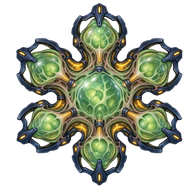
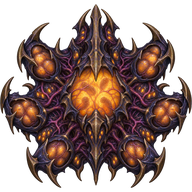
balance: capital weapons and repair progression

diff --git a/tools/validate_mod.py b/tools/validate_mod.py
@@ -213,6 +213,18 @@ if "rsTitan" in UNITS:
     for expected in (("attack", "turretMultiTargeting", "true"), ("turret_2", "canAttackLandUnits", "false"), ("turret_3", "copyFrom", "2"), ("projectile_3", "directDamage", "45")):
         if expected not in titan_entries:
             ERRORS.append(f"titan anti-air battery missing {expected}")
+for capital_name in ("rsCruiser", "rsBattleship", "rsTitan"):
+    if capital_name in UNITS and ("projectile_1", "instant", "true") not in UNITS[capital_name][1]:
+        ERRORS.append(f"{capital_name} main energy weapon must bypass projectile interception")
+if "rsCruiser" in UNITS and ("turret_pd", "interceptProjectiles_withTags", "rsNoProjectile") not in UNITS["rsCruiser"][1]:
+    ERRORS.append("capital ships must not inherit destroyer point defense")
+for missile_name in ("rsCruiserMissile", "rsMissileBattleship"):
+    if missile_name in UNITS and ("projectile_1", "instant", "false") not in UNITS[missile_name][1]:
+        ERRORS.append(f"{missile_name} must retain visible guided missiles")
+if "rsColossus" in UNITS:
+    for number in range(1, 6):
+        if (f"projectile_{number}", "deflectionPower", "-1") not in UNITS["rsColossus"][1]:
+            ERRORS.append(f"colossus weapon {number} must resist point defense")
 if "rsParadoxTitan" in UNITS:
     paradox_entries = UNITS["rsParadoxTitan"][1]
     for expected in (("core", "maxShield", "4500"), ("core", "selfRegenRate", "0.25"), ("turret_laserDefence", "laserDefenceEnergyUse", "0.05"), ("projectile_3", "directDamage", "65"), ("hiddenAction_academyTraining", "convertTo", "rsParadoxTitanVeteran")):
@@ -220,8 +232,8 @@ if "rsParadoxTitan" in UNITS:
             ERRORS.append(f"paradox titan missing {expected}")
 if "rsParadoxTitanVeteran" in UNITS and not any(s == "core" and k == "tags" and "rsTitan" in v and "rsVeteran" in v for s, k, v in UNITS["rsParadoxTitanVeteran"][1]):
     ERRORS.append("veteran paradox titan must retain titan cap and training tags")
-if "rsMegaShipyard" in UNITS and ("core", "nanoFactorySpeed", "2") not in UNITS["rsMegaShipyard"][1]:
-    ERRORS.append("mega shipyard must build at double factory speed")
+if "rsMegaShipyard" in UNITS and ("core", "nanoFactorySpeed", "3") not in UNITS["rsMegaShipyard"][1]:
+    ERRORS.append("mega shipyard must build at triple factory speed")
 for site, frame, first_action, final_action in (
     ("rsDysonSite", "rsDysonFrame", "action_buildDysonFrame", "action_completeDyson"),
     ("rsMatterSite", "rsMatterFrame", "action_buildMatterFrame", "action_completeMatter"),
@@ -391,8 +403,16 @@ if not (ROOT / "mod-info.txt").is_file():
     ERRORS.append("missing mod-info.txt")
 
 overrides = {(name, v) for name, (_, entries) in UNITS.items() for s, k, v in entries if s == "core" and k == "overrideAndReplace"}
-if overrides != {("rsPreFtlCommand", "commandCenter"), ("rsPreFtlBuilder", "builder"), ("rsPreFtlMine", "extractor"), ("rsNativeGunT3Bridge", "c_turret_t3_gun"), ("rsNativeSamT3Bridge", "c_antiAirTurretT3")}:
-    ERRORS.append(f"native replacements must include capital, builder, extractor, and T3 towers: {overrides}")
+if overrides != {("rsPreFtlCommand", "commandCenter"), ("rsPreFtlBuilder", "builder"), ("rsPreFtlMine", "extractor"), ("rsNativeRepairBay", "repairBay"), ("rsNativeGunT3Bridge", "c_turret_t3_gun"), ("rsNativeSamT3Bridge", "c_antiAirTurretT3")}:
+    ERRORS.append(f"native replacements must include capital, builder, extractor, repair bay, and T3 towers: {overrides}")
+if "rsNativeRepairBay" in UNITS:
+    entries = UNITS["rsNativeRepairBay"][1]
+    if ("action_upgradeRepairBase", "convertTo", "rsRepairBase") not in entries:
+        ERRORS.append("native repair bay must upgrade to the repair base")
+if "rsEngineer" in UNITS:
+    entries = UNITS["rsEngineer"][1]
+    if ("canBuild_repairBase", "name", "rsNativeRepairBay") not in entries:
+        ERRORS.append("engineer must build the native repair bay bridge")
 for tier, target, minerals in (
     ("rsMiningStationT3", "rsDeepMiningStation", 16),
     ("rsMiningStationT3Boosted", "rsDeepMiningStationBoosted", 24),
@@ -436,6 +456,8 @@ if "rsPreFtlCommand" in UNITS:
         ERRORS.append("command center must not produce engineers")
     if ("action_researchFTL", "addGlobalTeamTags", "rsTechFTL") not in entries:
         ERRORS.append("command center must research FTL before upgrading")
+    if ("action_researchFTL", "tags", "rsFtlResearch") not in entries or not any(s == "action_researchFTL" and k == "isVisible" and "queueSize(withActionTag='rsFtlResearch')==0" in v for s, k, v in entries):
+        ERRORS.append("command center must hide FTL research while it is already queued")
     for faction in ("regular", "machine", "hive"):
         if (f"action_{faction}", "price", "credits=5000, minerals=150") not in entries:
             ERRORS.append(f"{faction} empire must pay the new entry cost")

diff --git a/.agents/specs/content-roster.md b/.agents/specs/content-roster.md
@@ -64,6 +64,10 @@
 
 恒星基地及星堡、堡垒、擎天堡垒均能自动维修附近友方舰船和设施。一级修理半径 245、维修速率 0.60；高级阶段依次为半径 270/300/330、维修速率 0.75/0.90/1.05。修理半径与对应武器射程保持一致，选中圈能同时表示两种范围；专职维修基地以 320 半径和 1.50 维修速率保持更快修理的用途。修理目标选择、实际恢复速度与战斗中的生效情况需实测。
 
+原版修复湾应作为维修基地的前置，保留修理能力，并在完成驱逐舰舰体科技后原址升级为维修基地。升级前修复范围及速度低于维修基地。工程船和地面建造者建造前置修复湾，不能绕开升级费用直造维修基地。升级过程、AI 使用与旧存档兼容性须验证。
+
+舰船武器分工按屏卫舰与主力舰重设：护卫舰保持轻型速射炮，驱逐舰保留对导弹近防；巡洋舰、战列舰、泰坦以不可被普通点防御拦截的定向能量主炮承担稳定主力伤害，射速逐级降低、单发伤害与射程逐级提高。主力舰不继承驱逐舰的导弹近防，T2 战列舰与悖论泰坦的激光防御仍可拦截导弹。导弹巡洋舰和导弹战列舰保留可被专门近防克制的导弹，但不能因所有主力舰继承近防而互相零伤害。巨像三种行星武器及普通地图的地爆天星、中子灭杀不应被普通激光防御拦截。所有对舰与对地效果须通过隔离对照实测，不能以载入成功代替命中证明。
+
 防线设施的初始功能基线：导弹平台在研究远程导弹后可建，优先覆盖远距离航道；离子加农炮在战列舰时代并完成专属研究后可建，以慢速重击压制主力舰；护盾发生器在完成护盾科技后可建，拥有自身可恢复护盾，并提供附近弹体拦截。护盾发生器的区域能力以弹体拦截和阵地保护体现，不宣称会直接给邻近单位增加 `maxShield`；若后续找到稳定的区域护盾赋予机制，再按已确认设计调整。
 
 本规范中的“四级”是模组时代和升级顺序，不直接等于游戏 INI 的 `techLevel`。本机 1.15 解析器仅允许 `techLevel` 为 1–3；擎天堡垒仍以队伍科技、资源与前级基地限制其第四时代可达性。
@@ -82,11 +86,17 @@
 
 物质解压器的首版平衡基线：只有三张专用地图的黑洞节点附近可建。完成擎天堡垒科技后，在研究站消耗 15000 科研、240 合金、20 战略资源解锁；工程船以 4500 能量币、250 合金、12 战略资源建设基址；框架阶段消耗 3000 能量币、350 合金、180 科研、20 战略资源；完成阶段消耗 5500 能量币、600 合金、300 科研、25 战略资源。仅完成体每周期产出 50 矿物；同队在基址、框架、完成体中合计限一处。黑洞节点在普通地图不存在，因此该巨构不能在普通地图建造。放置距离、数量限制及转换行为仍须对局验证。
 
-巨型船坞的首版基线：擎天堡垒与主宰舰体科技完成后，在研究站消耗 16000 科研、260 合金、20 战略资源解锁；工程船以 5000 能量币、280 合金、12 战略资源建设基址；框架阶段消耗 3500 能量币、400 合金、200 科研、20 战略资源；完成阶段消耗 6000 能量币、650 合金、320 科研、28 战略资源。同队三个阶段合计限一处。完成体提供全部常规舰船的生产入口，并以工厂生产速度倍率 2 缩短同一队列的造舰时间；《群星》式多船坞并行产舰需要本机 1.15 实测支持，不能把单队列加速冒充多线建造。其独立多线能力验收前，该巨构仍属未完成。
+巨型船坞的首版基线：擎天堡垒与主宰舰体科技完成后，在研究站消耗 16000 科研、260 合金、20 战略资源解锁；工程船以 5000 能量币、280 合金、12 战略资源建设基址；框架阶段消耗 3500 能量币、400 合金、200 科研、20 战略资源；完成阶段消耗 6000 能量币、650 合金、320 科研、28 战略资源。同队三个阶段合计限一处。完成体提供全部常规舰船的生产入口，并以工厂生产速度倍率 3 缩短同一队列的造舰时间；《群星》式多船坞并行产舰需要本机 1.15 实测支持，不能把单队列加速冒充多线建造。其独立多线能力验收前，该巨构仍属未完成。
 
 科学枢纽的首版基线：完成擎天堡垒科技后，在研究站消耗 15000 科研、220 合金、18 战略资源解锁；工程船以 4700 能量币、260 合金、12 战略资源建设基址；框架阶段消耗 3200 能量币、370 合金、190 科研、18 战略资源；完成阶段消耗 5700 能量币、620 合金、310 科研、26 战略资源。同队三个阶段合计限一处，只有完成体每周期产出 45 科研。它提供科研经济而非自动解锁科技；科技仍由研究站或其二级建筑付费研究。转换、限制和实际产出需要对局验收。
 
-量子弹弓的首版基线：专用地图各设两个预定出口，普通地图不提供出口，因而不能建造弹弓。完成擎天堡垒与科学枢纽科技后，在研究站消耗 18000 科研、300 合金、24 战略资源解锁；工程船以 5000 能量币、300 合金、15 战略资源建设基址；框架阶段消耗 3500 能量币、450 合金、240 科研、25 战略资源；完成阶段消耗 6500 能量币、700 合金、380 科研、35 战略资源。同队三个阶段合计限一处。完成体从 180 像素内选取至多 12 艘带舰队标签的本队舰船，玩家选出口 A 或 B 发射，每次消耗 1500 能量币与 4 战略资源，冷却 90 秒。原型存档已证实两艘测试舰可被逐个送到固定出口且会错位避免重叠；正式舰船、两个出口和多人同步仍须独立验证。
+量子弹弓的首版基线：专用地图各设两个预定出口，普通地图不提供固定出口。完成擎天堡垒与科学枢纽科技后，在研究站消耗 18000 科研、300 合金、24 战略资源解锁；工程船以 5000 能量币、300 合金、15 战略资源建设基址；框架阶段消耗 3500 能量币、450 合金、240 科研、25 战略资源；完成阶段消耗 6500 能量币、700 合金、380 科研、35 战略资源。同队三个阶段合计限一处。完成体从 180 像素内选取至多 12 艘带舰队标签的本队舰船，玩家在专用地图可选出口 A 或 B 发射，每次消耗 1500 能量币与 4 战略资源，冷却 90 秒。原型存档已证实两艘测试舰可被逐个送到固定出口且会错位避免重叠；正式舰船、两个出口和多人同步仍须独立验证。
+
+普通地图没有固定 A/B 出口，现有玩家手动动作不可用。高难度 AI 仍可自动寻找敌方经济建筑发动突袭，被替换的原版资源抽取器属于经济目标。玩家投送不应由系统代选经济目标，未来须验证点击地图位置指定落点且舰队由玩家继续指挥的实现方式，确认前不将普通地图手动投送列为已交付功能。
+
+前超光速指挥中心的超光速理论研究动作在本建筑已有同项研究排队时隐藏，完成后由科技标签永久隐藏，防止单座建筑上反复投入费用。多座指挥中心跨建筑并行排队仍须验证。
+
+机械智能与蜂巢思维的专属一级恒星基地、阵营建筑和辅助舰船采用独立原创俯视贴图。机械智能以冷色模块装甲为主，蜂巢思维以有机甲壳和暖色发光核心为主。其余共用舰船与建筑维持共享舰型；完整阵营化外观仍属未完成范围。
 
 戴森球的首版平衡基线：完成擎天堡垒科技后，可在研究站消耗 500 科研、200 合金和 15 战略资源研究戴森球。工程船随后以 4000 能量币、220 合金和 10 战略资源建设基址；基址升级框架消耗 2500 能量币、320 合金、150 科研和 15 战略资源；框架完工消耗 5000 能量币、550 合金、250 科研和 20 战略资源。只有完成体每周期产出 60 能量币，同队同时至多保有一处基址、框架或完成体。阶段被取消或摧毁后，该队可重新建设；不因残骸继续占用数量上限。以上成本与产出是待对局平衡的初值，不表示游戏 1.15 的队伍计数或转换行为已验证。
 

diff --git a/.agents/spikes/local-references.md b/.agents/spikes/local-references.md
@@ -336,6 +336,20 @@
 
 针对资源竞争，将高难度 AI 的地面建造者在阵营选择前的六类原版军工入口设为暂时锁定，保留资源与防御入口。静态检查和三张专用地图游戏 1.15 载入通过；原版双人地图的约 25 秒加速探针也完成存档且无模组解析错误。该探针不足以证明实际建厂抑制、完整升级时机、阵营选择后菜单恢复或人类玩家菜单不变，需新对局直接观察。
 
+## 2026-10-02 重复研究、弹弓普通地图与阵营美术
+
+游戏内置单位样例使用带动作标签的 `queueSize(withActionTag=...)` 判断队列。超光速理论动作据此加入队列标签，在本座指挥中心已有同项研究排队时隐藏按钮；科技完成后继续按队伍标签隐藏。三张专用地图和原版双人地图加速探针可载入并存档，尚未通过点击与 AI 长局确认费用只扣一次，也未验证多座首都跨建筑同时排队。
+
+量子弹弓原有 A/B 手动动作依赖专用地图出口，在原版地图上均锁定；其 AI 经济突袭动作可寻找敌方带经济目标标签的建筑。曾尝试加入同路径的玩家手动动作，但用户指出系统代选经济建筑不符合玩家操作预期，已在交付前撤回。被替换的原版资源抽取器仍纳入 AI 经济目标。巨型船坞 `nanoFactorySpeed` 从 2 调至 3，仍只有一个生产队列，实际造舰时间须计时。
+
+机械与蜂巢的六种专属单位原先使用简化占位图。本次用内置图像生成工具分别制作原创俯视贴图，降采样为 4 倍游戏尺寸，并生成同轮廓的暗色残骸图；未使用第三方模组素材。静态贴图引用检查和三图载入通过，仍需在游戏里检查透明边缘、缩放后的清晰度与阵营辨识度。用户随后澄清需删的是巨像地面动作的“对地”和“原版地图限定”文案，已据此修改巨像文案。
+
+## 2026-10-02 主力舰近防与导弹互射隔离对照
+
+检查配置发现巡洋舰复制驱逐舰、战列舰复制巡洋舰、泰坦复制战列舰，因而所有主力舰连 T1 都继承驱逐舰的 `rsMissile` 近防炮。玩家同时观察到普通战列舰发射小光点引爆导弹。以本机游戏 1.15 的隔离双人图比较：测试目标为高血量导弹战列舰，首次受伤即转换为受击探针。相同加速与早期保存时刻，保留继承近防的对照局存档仍有原目标名称而没有转换后的目标，关闭主力舰继承近防的配置则出现转换后的目标。存档单位名的原始字节计数包含元数据，只比较同探针两局的差异，不据此给出精确伤害或命中率。该结果支持继承近防导致早期导弹互射无伤，尚需多人实战与各舰型对照。
+
+本机原版单位与 EK 参考配置均使用即时能量弹体和 `deflectionPower: -1` 的不可拦截弹体。只借鉴配置机制，不复制第三方代码或素材。本模组把巡洋舰、战列舰、泰坦的能量主炮改为即时命中，导弹派生型显式保留飞行弹体，并将巨像五种打击弹体设为抗点防御。游戏载入通过后仍须实战检验巨像核爆与中子灭杀在激光防御范围内是否命中。原版修复湾的替换桥接建筑已配置原址升级维修基地，旧存档和修复行为仍须游戏内验证。
+
 ## 2026-10-02 方舟与恒星前哨站重建链
 
 普通地图开局仍处行星时代，故将原版指挥中心替换单位显示为“行星指挥中心”，而不将其误称为恒星前哨站。方舟独占 `rsOutpost` 建造入口；前哨站携带 `rsCapital` 标记，并分别提供常规、机械、蜂巢阵营的恒星基地升级动作。三张专用地图的失都触发器由 1 秒改为连续 240 秒，防止首都刚毁即删除幸存方舟。静态单位/地图检查通过，三张原始地图游戏载入通过；另在沙盒复制双人图，把初始恒星基地及工程船换成恒星前哨站与方舟，游戏报告载入 23 单位并找到建造者。这仅证明新单位和地图可解析；菜单点击、实际施工与转换、失都计时重置以及普通地图重建尚待对局验证。

diff --git a/.agents/todos/content-roster.md b/.agents/todos/content-roster.md
@@ -133,6 +133,13 @@
   - [ ] 验证各难度舰队编队规模、科技节点和主动进攻时机；本模组已隔离存档验证原生难度倍率读取分支，以及同图 12 舰集结时低难度不发令、高难度发令并通知舰船。高难度主线研究与量子弹弓经济突袭已接入配置并通过三图载入。仍需实战证明进攻路线、弹弓经济目标选择及长期难度差异。
   - [x] 工程船建造者、能源/矿物/科研/造船/合金建筑优先级、主线研究与冶炼动作 AI 优先级已配置，并通过静态与游戏 1.15 载入检查。
   - [ ] 玩家实测原版地图 AI-Hard 在大后期才转型，期间大量建造陆军工厂与低级兵种。高难度 AI 转型前的六类原版军工入口已在地面建造者处暂缓；须在新对局比较升级时机、资源余额、玩家菜单和转型后入口恢复，避免仅以配置载入认定问题解决。
+  - [ ] 原版地图验证超光速理论已排队时不能再次排队、完成后按钮消失，并观察 AI 是否停止重复投入费用。
+  - [ ] 重新设计并验证原版地图由玩家指定量子弹弓落点的操作，不能自动选择敌方经济建筑；多人同步另验。
+  - [ ] 游戏内核对机械与蜂巢专属一级基地、阵营建筑和辅助舰船贴图的清晰度、比例与残骸显示。
+  - [ ] 同舰种对比巨型船坞三倍单队列速度与普通造船厂的实际造舰时间。
+  - [ ] 原版修复湾替换为可升级桥接建筑，工程船改为先建修复湾；需实机点击确认修复、升级费用、原址转换、AI 使用与旧存档兼容。
+  - [ ] 屏卫舰保留近防，主力舰不再继承驱逐舰近防，能量主炮改为即时命中；需同场对比激光防御与导弹舰的对舰、对地伤害。
+  - [ ] 巨像五种打击弹体设置抗点防御，需以激光防御塔和舰载激光防御分别验证地爆天星与中子灭杀实际命中。
   - [ ] 五类巨构的 AI 基址优先级和两次高优先级升级已补齐，战略资源开采站也有建造优先级；最高难度隔离局预置足额科技与资源后约 20 秒出现 AI 建造的巨型船坞基址。自然经济长局仍须确认资源余额、可放置地点和三阶段实际完成，不能仅凭科技标签或基址出现判定完整可达。
   - [x] 双星咽喉可读存档证实电脑玩家自动选择常规帝国，转换恒星基地，并建造首座采矿站。
   - [x] 连续普通存档证实经济建筑与造船厂扩张；普通难度加速对局快照出现研究站、行星研究所、合金铸造厂、动能护卫舰与驱逐舰。纯自定义单位存档的坐标与常见队伍字段也已抽样核对。
